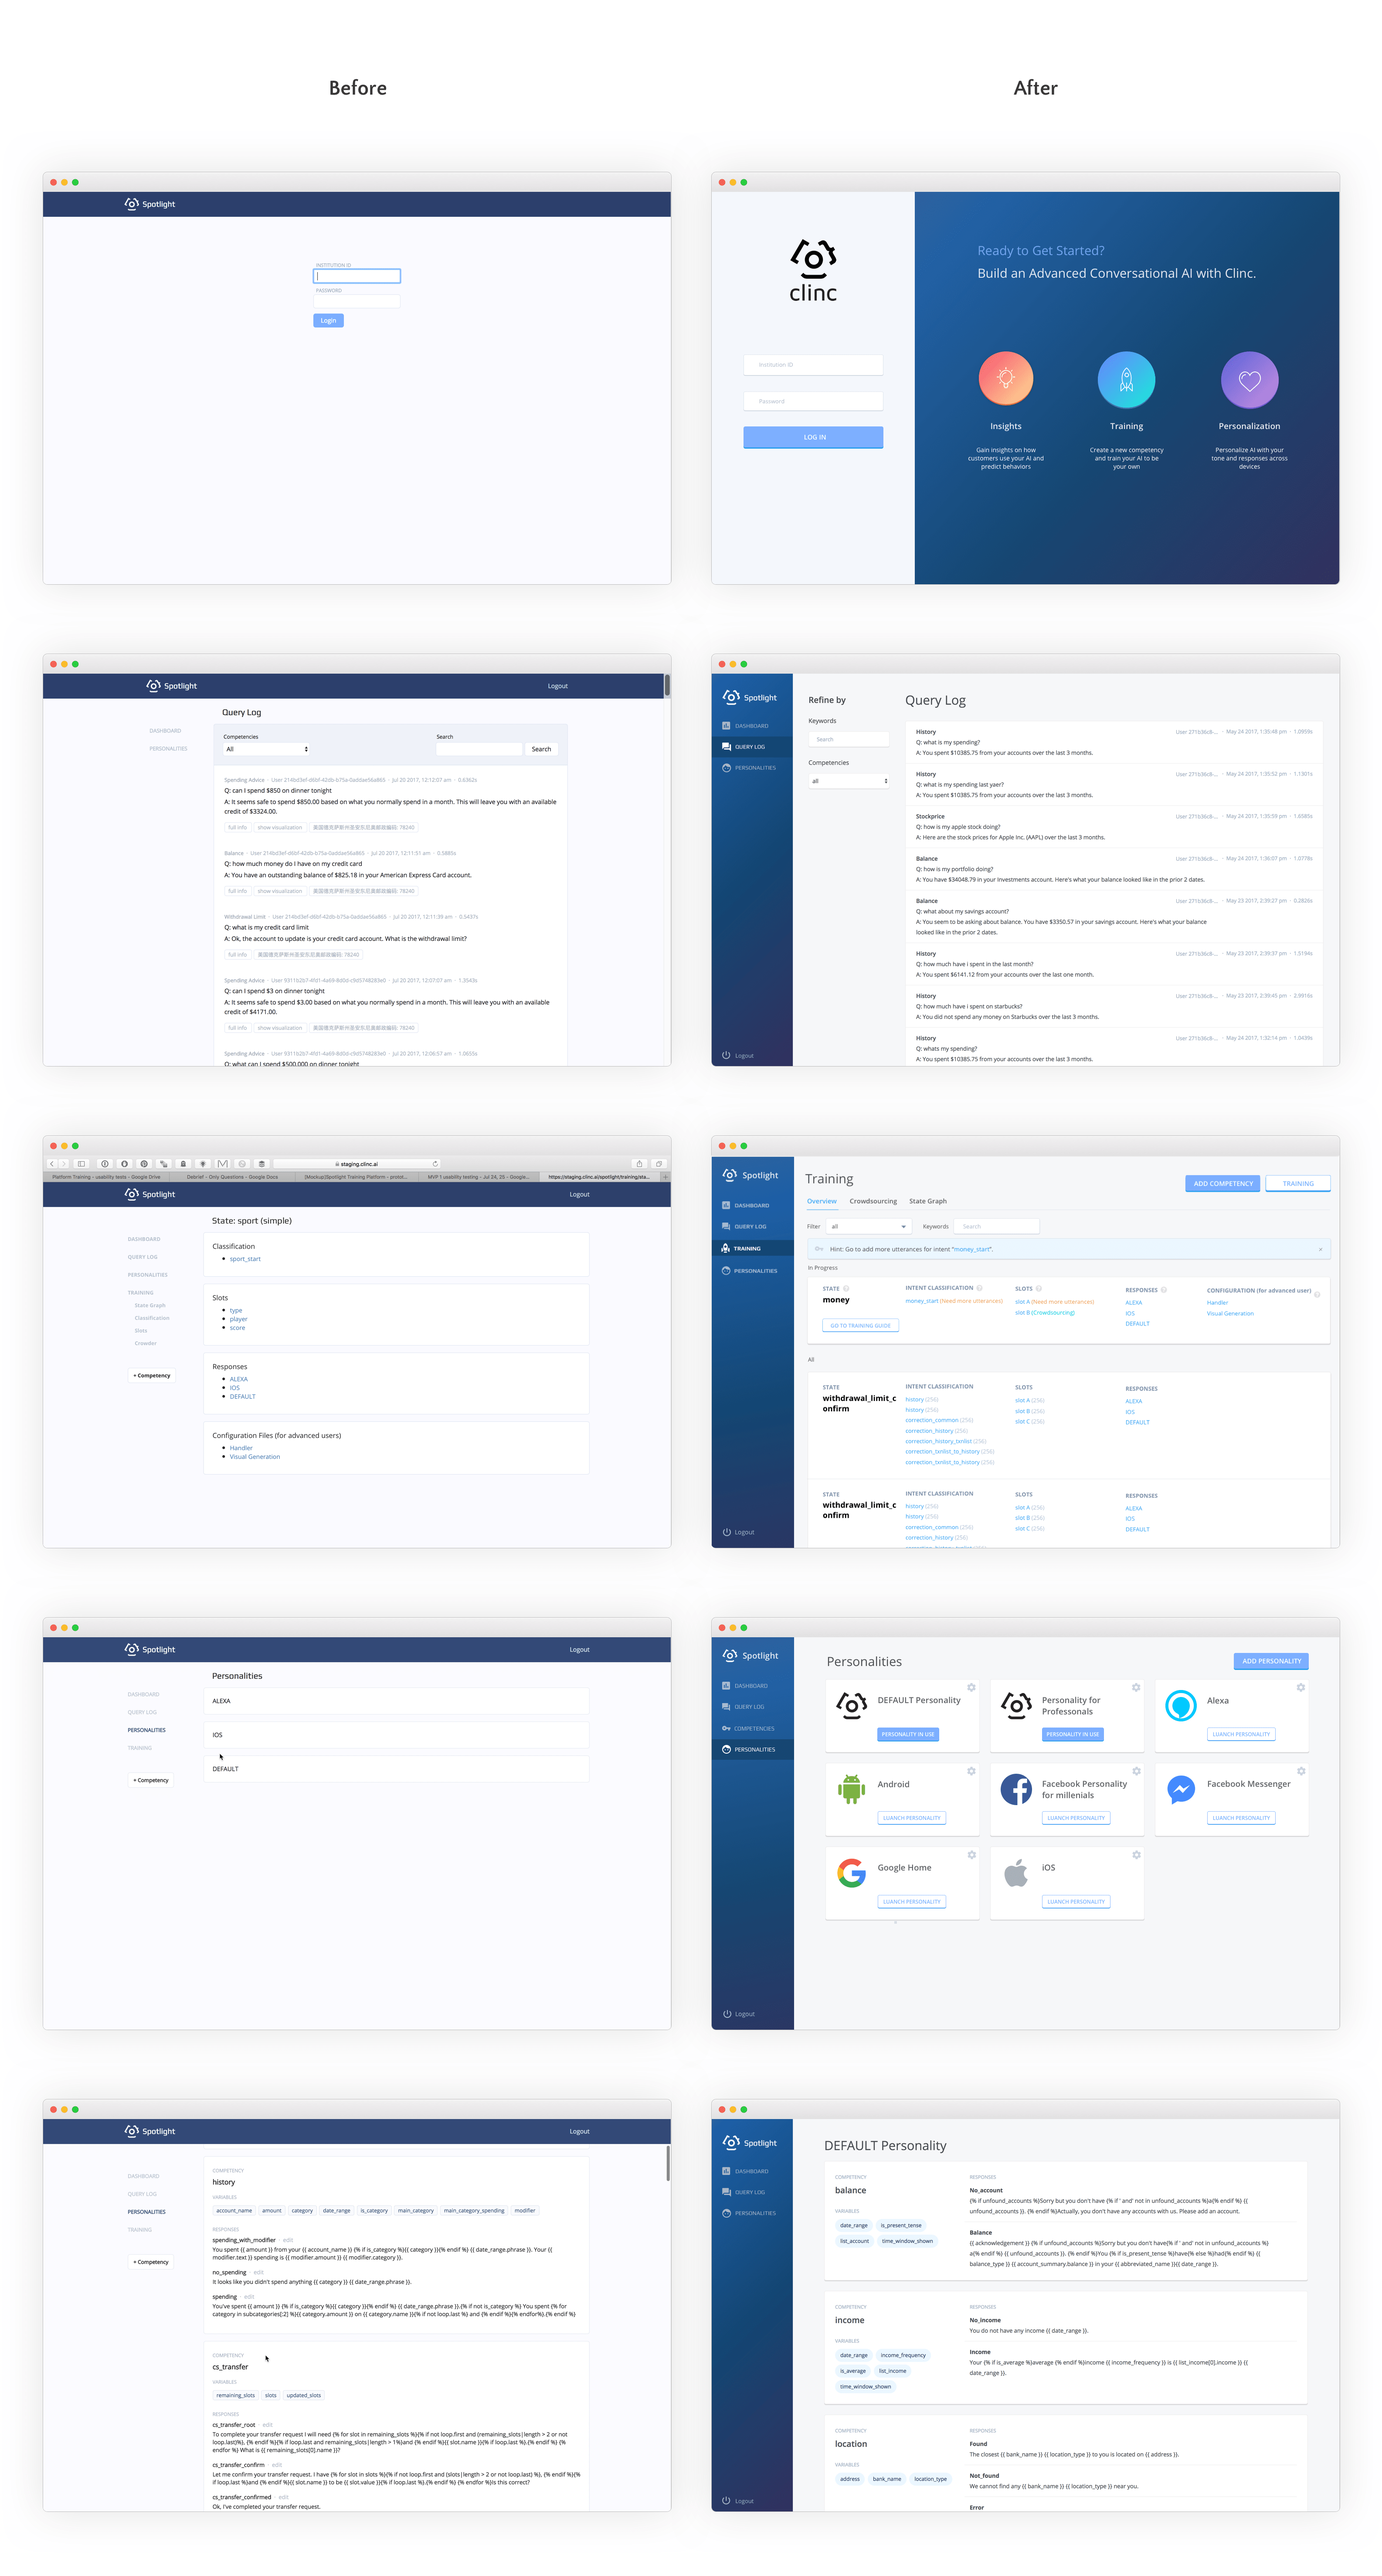
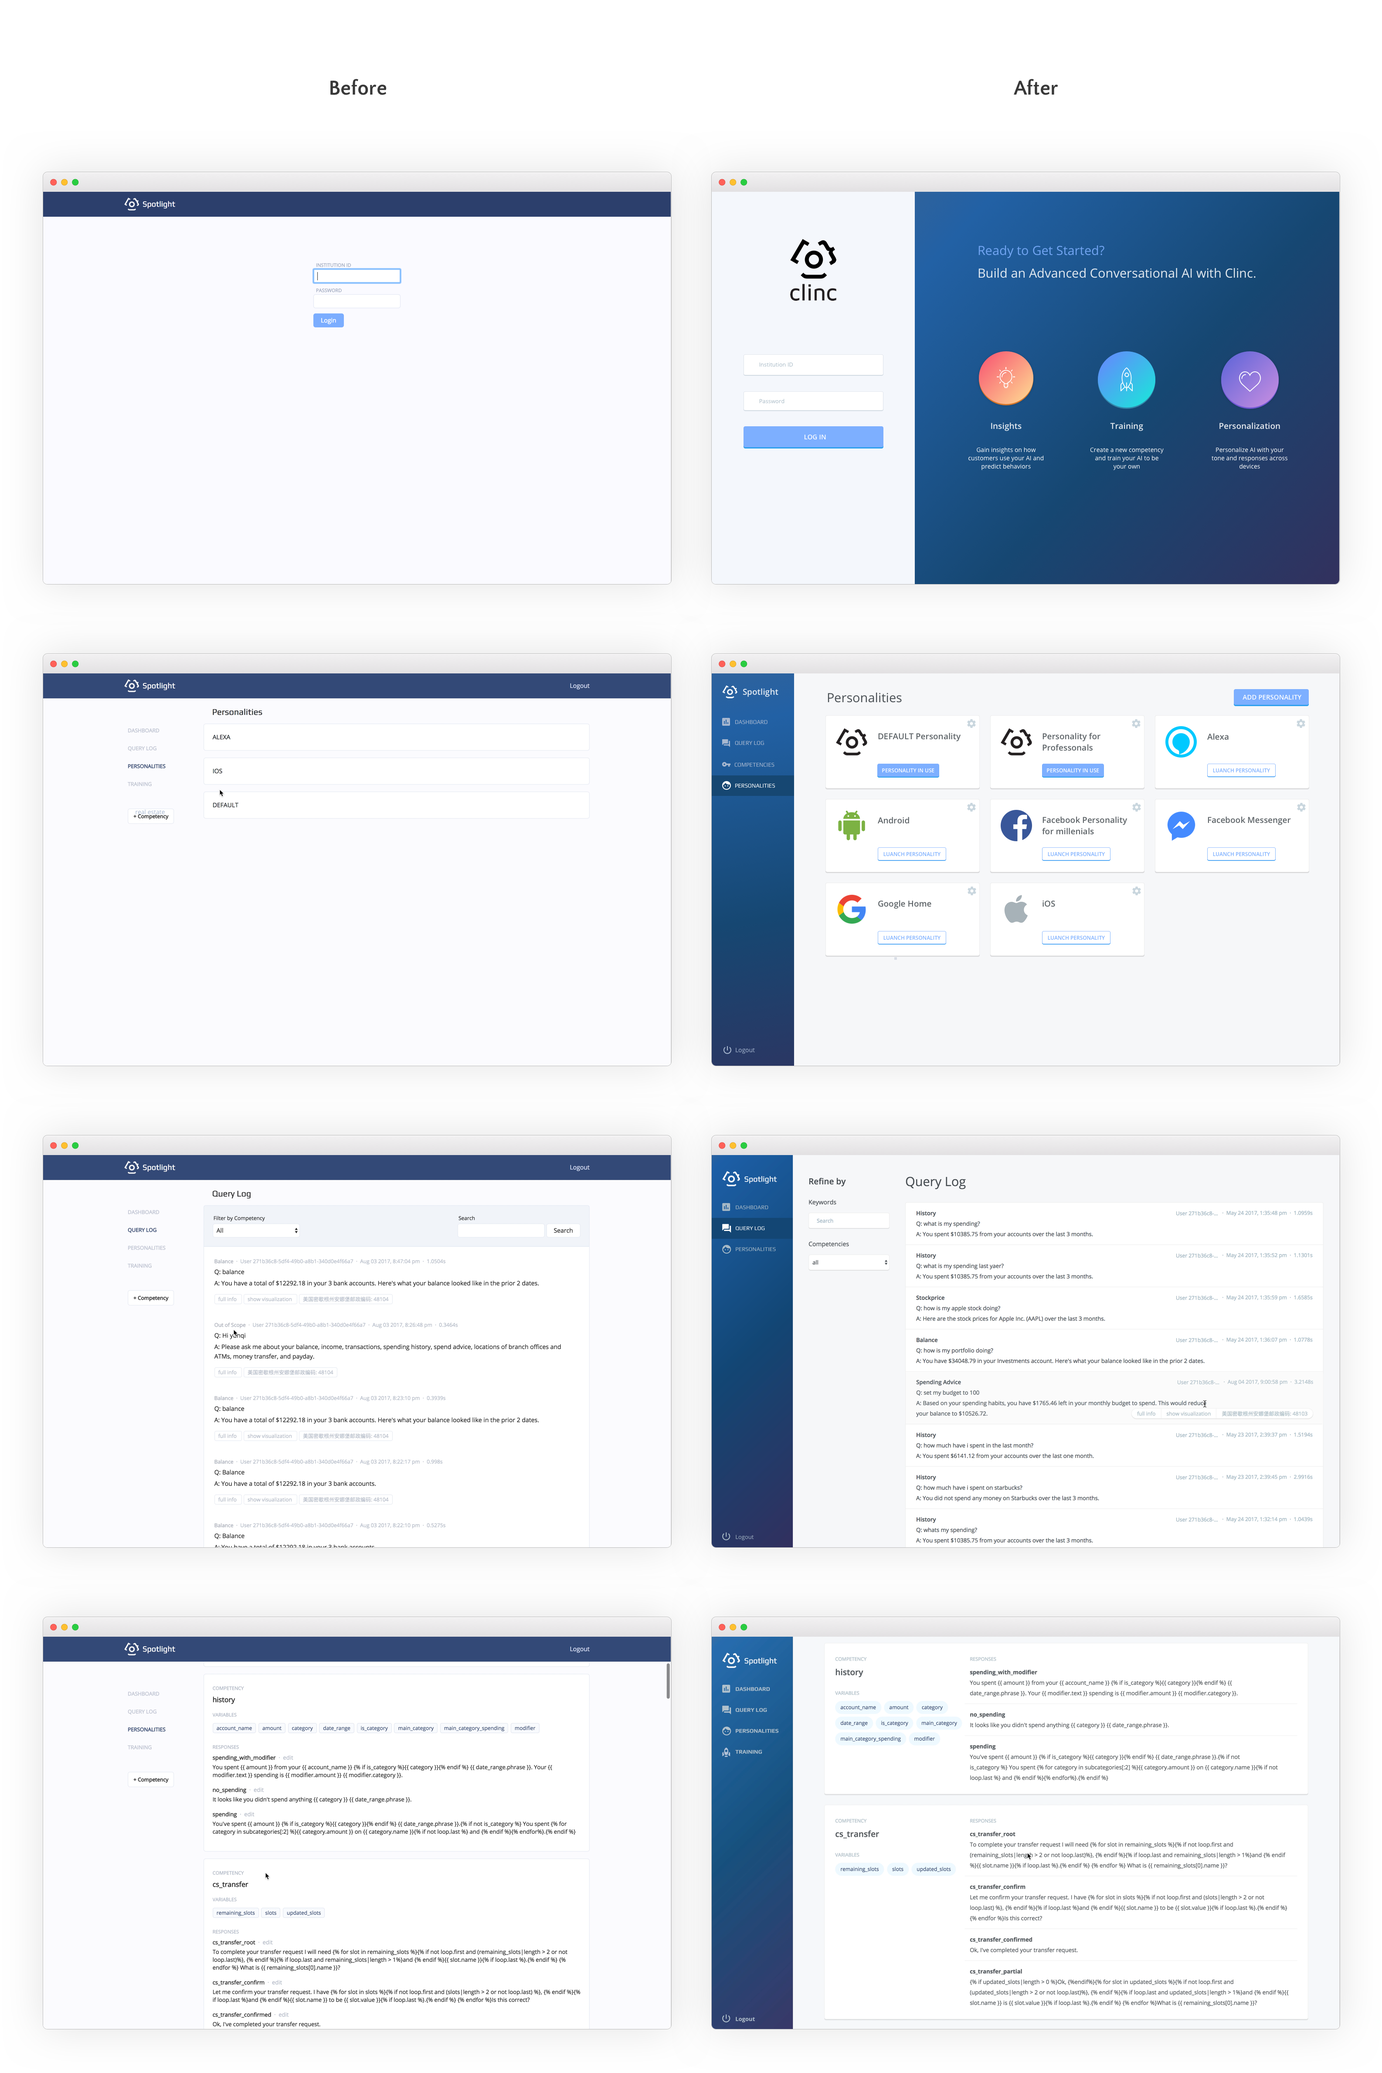
AI Design Details

diff --git a/ai-training.html b/ai-training.html
@@ -102,6 +102,8 @@
                 <h2>Background</h2>
                 <p >Clinc builds the most advanced conversational AI platform for financial services, and delivering enterprise grade AI solutions to the world's leading banking and financial industry.</p>
                 <p>As the only designer working on Clinc's AI training platform, I led the project to revamp the visual style and solve the key usability issues by continuously re-imagining what it’s like for Clinc's users to train AI. I'll share my learning on how I understand user’s mental model and break down the barriers to help them train AI easily.</p>
+                <img src="images/ai/training-process.jpg" class="browser-screenshot" alt="An accurate illustration of the AI training process" />
+                <h5 style="text-align: center">An accurate illustration of the AI training process. Iterated with the help of AI engineers.</h5>
             </article>
             </div>
           </div>
@@ -170,13 +172,9 @@
 
         <div class="container">
             <div class="row">
-                <article class="col-md-12">
+                <article class="col-md-10">
                     <img class="browser-screenshot" src="images/ai/new-overview-page-min.png" alt="new overview page" onmouseover="this.src='images/ai/new-overview-page-hover.png'" onmouseout="this.src='images/ai/new-overview-page-min.png'"/>
-                   <div class="row">
-                     <div class="col-md-12 ">
-                       <h5 style="text-align: center">New Overview Page. Users can keep track of the training progress easily. <br> Tip: hover to see hightlights.</h5>
-                     </div>
-                    </div>
+                    <h5 style="text-align: center">New Overview Page. Users can keep track of the training progress easily. <br> Tip: hover to see hightlights.</h5>
                 </article>
             </div>
         </div>
@@ -197,14 +195,10 @@
 
         <div class="container">
             <div class="row">
-                <article class="col-md-12">
+                <article class="col-md-10">
                     <img class="browser-screenshot" src="images/ai/training-guide-with-work-area-min.png" alt="training guide with work area"
                     onmouseover="this.src='images/ai/training-guide-with-work-area-hover.png'" onmouseout="this.src='images/ai/training-guide-with-work-area-min.png'"/>
-                   <div class="row">
-                     <div class="col-md-12 ">
-                       <h5 style="text-align: center">Training Guide with Work Area. Users can train AI at their fingertips. <br> Tip: hover to see hightlights.</h5>
-                     </div>
-                    </div>
+                   <h5 style="text-align: center">Training Guide with Work Area. Users can train AI at their fingertips. <br> Tip: hover to see hightlights.</h5>
                 </article>
             </div>
         </div>
@@ -213,7 +207,7 @@
                  <div class="row">
                      <article class="col-md-8 image-margin-refine-bottom">
                          <h3>Results</h3>
-                         <p>All of the changes I made were received positively from users. I also did two usability testings to gauge the effectiveness of the new design.</p>
+                         <p>The changes I made were received positively from users. I also did two usability testings to gauge the effectiveness of the new design.</p>
                          <ul>
                              <li>With the original design, the set of tasks took 19 minutes. With the new design, the set of tasks took 6 minutes. The improvement is 217%.</li>
                              <li>Users' subjective satisfaction with the new design (4.3/5) was 139% higher than the original design (1.8/5).</li>
@@ -237,25 +231,74 @@
                  <div class="row">
                    <article class="col-md-8">
                      <h2>Design System</h2>
-                     <p >For the design system, I wanted to mature the Clinc brand and take the visual style from something that was very bootstrap like to incorporating more vivid elements and mirroring the visual style of our main website.</p>
+                     <h3>An approachable design system that supports our brand awareness.</h3>
+                     <p>As I was designing the website, Clinc just finished its messaging style guide to support a better brand awareness. The traits that characterize us are:</p>
+                     <ul>
+                         <li>Innovative</li>
+                         <li>Intelligent</li>
+                         <li>Imaginative</li>
+                         <li>Accessible</li>
+                     </ul>
+                     <p>However, the original visual style failed to meet the standards. I wanted to mature the Clinc brand and take the visual style from something that was very bootstrap-like to incorporating more vivid elements and mirroring the visual style of our main website. At the same time, the visual style also needs to express our brand identity.</p>
                      <p>After I created a basic style guide, I began mockup up the screens in code by creating new stylesheets. Design by coding made it really easy for me to show in real-time what projects might look like to stakeholders. This approached was much faster and allowed for quick iteration.</p>
                  </article>
                  </div>
                </div>
 
-                <div style="padding-bottom: 4em;">
-                    <img src="images/ai/before&after-min.png" alt="before & after">
-                    <h5 style="text-align: center">I worked on Clinc's AI training platform, improving its UX through research, design, and front-end coding.</h5>
-                </div>
+                <img src="images/ai/before&after-min.png" alt="before & after"/>
+                <h5 style="text-align: center">I worked on Clinc's AI training platform, improving its UX through research, design, and front-end coding.</h5>
 
-                <div class="container">
-                   <div class="row">
-                     <article class="col-md-10">
-                         <img src="images/ai/training-process.jpg" class="browser-screenshot" alt="An accurate illustration of the AI training process" />
-                       <h5 style="text-align: center">An accurate illustration of the AI training process. Iterated with the help of AI engineers.</h5>
+                 <div class="container">
+                     <div class="row">
+                       <article class="col-md-8">
+                         <h2 style="padding-top:3em;">Design Details</h2>
+                         <h3>Login Page. Proactively communicate the value of our technology.</h3>
+                         <p>This is an important page, but so much space has been wasted. I added a call-to-action and created 3 new columns to clearly describe what we do and how we differentiate from others. This supports our brand awareness and customer retention.</p>
+                         <p>Regarding color choices, I chose blue gradients. The blue create a professional identity, yet the hues upgrade the perception of the company in a techy way. The gradients of the icons also create an imaginative and accessible aura.</p>
                    </article>
                    </div>
                  </div>
+                 <img src="images/ai/before&after-login.png" alt="before vs after login page"/>
+                 <h5 style="text-align: center">Login Page. Proactively communicate the value of our technology.</h5>
+
+                 <div class="container">
+                     <div class="row">
+                       <article class="col-md-8">
+                         <h3>Personality Page. Visualize the list of personalities.</h3>
+                         <p>The original design discourages users to train more personalities because, not only because it is plain, but also because it's hard for users to find a specific personality through the entire list.</p>
+                         <p>I added some recognizable icons to evoke interest to see more. The cards now fill the appropriate width, with buttons to clarify their usage.</p>
+                   </article>
+                   </div>
+                 </div>
+                 <img src="images/ai/before&after-personality.png" alt="before vs after personality page"/>
+                 <h5 style="text-align: center">Personality Page. Visualize the list of personalities.</h5>
+
+                 <div class="container">
+                     <div class="row">
+                       <article class="col-md-8">
+                         <h3>Query Log Page & Response Page. Increase the legibility.</h3>
+                         <p>The query log page is a daily-to-use page for people to read through the queries and figure out what's wrong so that they can improve the AI. However, it's hard for users to scan the queries on the original website because:</p>
+                         <ul>
+                             <li>Different kinds of info are mixed together with various width.</li>
+                             <li>The filters would disappear when scrolling down the page.</li>
+                         </ul>
+                         <p>To direct their attention to the right info, I settled down to layering levels of navigation from left-to-right. It not only creates beautiful hierarchy but also logical connection between views. A persistent sidebar simplifies navigation and removes need for scrolling up to search queries.</p>
+                         <p>I also decided to place queries in cards to increase legibility. Once hovered over, the background of the card will change for scannability. Some repetitive buttons such as "full info" and "show visualization" are also hidden intentionally for better visual hierarchy.</p>
+                         <p>Based on the interviews, I found that users look for the catergories of queries first, so I put them in bold and place them at the beginning of each card, allowing users to quickly scan each card to discover what interests them.</p>
+                   </article>
+                   </div>
+                 </div>
+                 <img src="images/ai/before&after-querylog.png" alt="before vs after query log page"/>
+                 <h5 style="text-align: center">Query Log Page. Increase the legibility of queries.</h5>
+                 <div class="container">
+                     <div class="row">
+                       <article class="col-md-8">
+                         <p>Response Page shares the same design rationalization with Query Log Page to increase the legibility. I also made use of layering levels of navigation and card design with better visual hierarchy to help users scan.</p>
+                   </article>
+                   </div>
+                 </div>
+                 <img src="images/ai/before&after-response.png" alt="before vs after response page"/>
+                 <h5 style="text-align: center">Response Page. Increase the legibility of responses.</h5>
 
 
                 <!-- two coloumns -->
@@ -263,10 +306,10 @@
                   <div class="row">
                       <article class="col-md-8">
                         <h2>Challenges</h2>
-                        <p>The biggest challenge for this project was navigating the problem space. The task of “building a design system” sounded so daunting at first compared to how comprehensive and complicated the iOS design system or the Google Material Design system are. I am glad my design hit the bar.</p>
+                        <p>The biggest challenge for this project was navigating the problem space. As the sole designer, the task of “building a design system” sounded so daunting at first compared to how comprehensive and complicated the iOS design system or the Google Material Design system are. I am glad my design hit the bar.</p>
                         <p>AI training itself is also a new problem space for me. I had to keep bugging my colleagues to understand how it actually works. With this said, I got the chance to work with so many amazingly talented individuals before I left, so it was definitely worth it.
                         </p>
-                        <p><a class="link" target="_blank" href="https://medium.com/@hjwwjxm/3-things-i-learned-during-my-ux-internship-at-clinc-50a82b229294">Want to learn more about my experience at Clinc? Check out my Medium post.</a></p>
+                        <p><a class="link" target="_blank" href="https://medium.com/@hjwwjxm/3-things-i-learned-during-my-ux-internship-at-clinc-50a82b229294">Want to learn more about what I learned at a startup? Check out my Medium post.</a></p>
                     </article>
                   </div>
                 </div>
